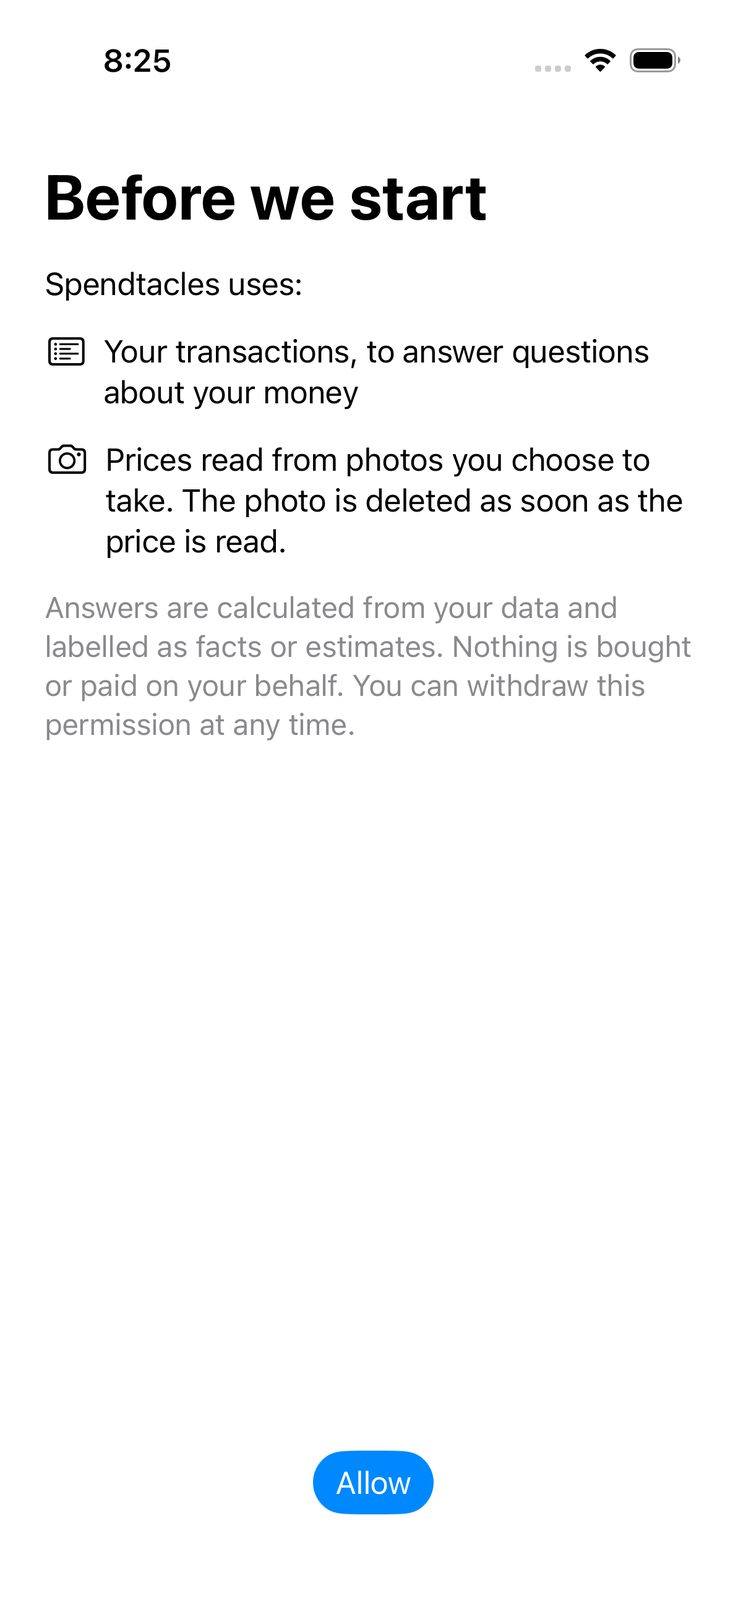
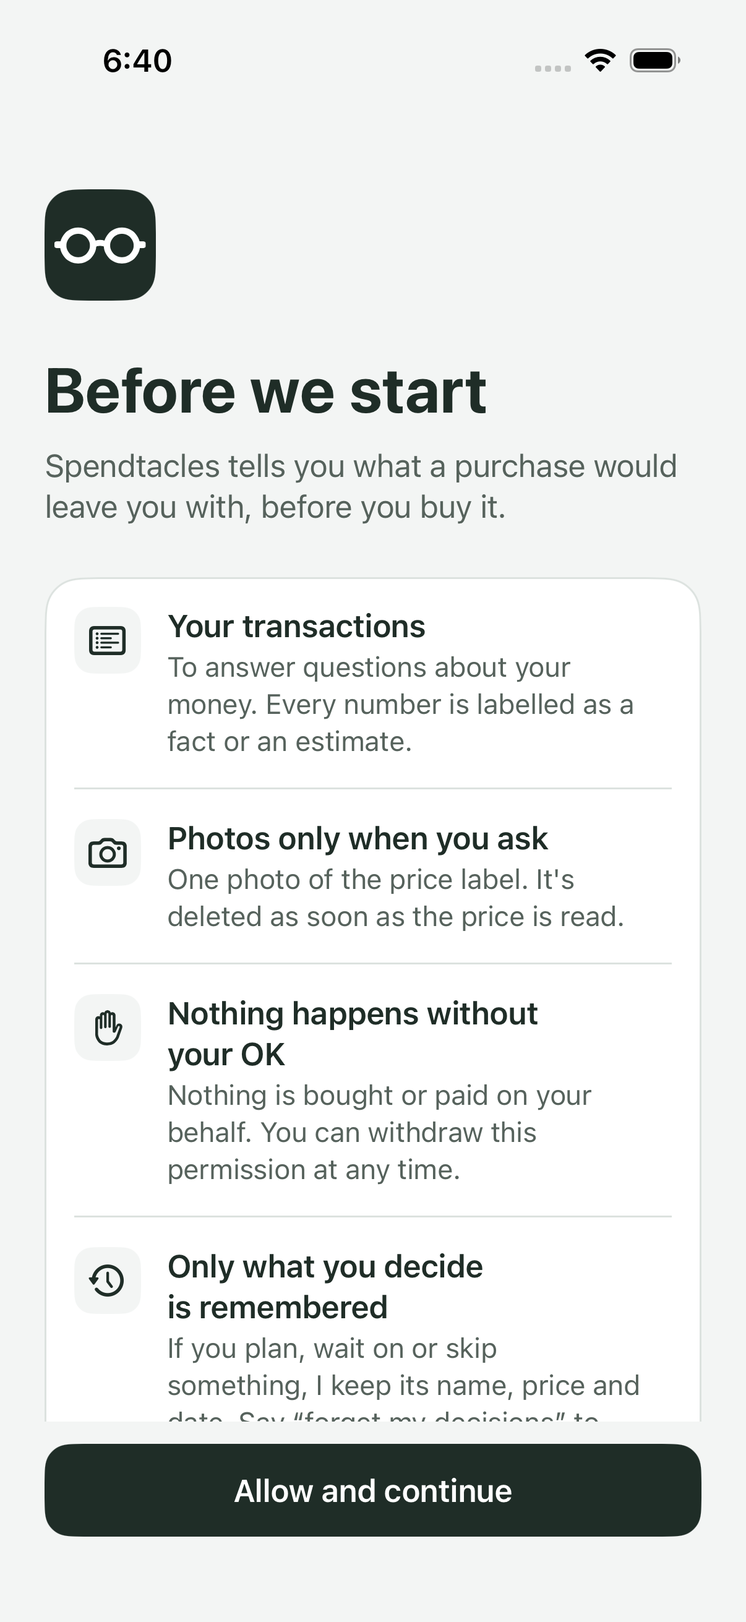
docs: update everything to the current app
- README: new CI screenshots (consent, answer, verified receipt, updated
  week) and captions; mock note mentions the header pill and receipts.
- Submission text rewritten around "show me why", the trust gate and the
  evaluation; 4,180 of 5,000 characters; links to the eval results.
- Backend README: 83 tests, receipt endpoints, trust gate, options,
  decision memory, eval and demo commands, FIXTURE_SCENARIO and
  LABEL_FIXTURE_SEQUENCE.
- OpenAPI: POST /v1/receipts/verify, GET /v1/receipts/public-key.
- iOS README: UI test flow and design notes (look, receipt, raw cards,
  follow-ups). Contracts README and ARCHITECTURE.md note the receipt.
- Demo video plan: the confirm sheet is now the decision panel ("Plan it
  in / Wait / Skip") and the app's palette changed; receipt noted as an
  optional proof beat. Timing and creative choices untouched.
- iOS: receipt lines no longer say "Read by camera · Camera".
- Eval report regenerated (19/19, 0 false-safe).

diff --git a/companion-ios/Sources/CompanionUI/Views.swift b/companion-ios/Sources/CompanionUI/Views.swift
@@ -436,7 +436,10 @@ struct ReceiptSheet: View {
             }
             HStack(spacing: 6) {
                 EpistemicChip(epistemic: line.epistemic)
-                Text("· \(sourceName(line.source.rawValue))").font(.caption).foregroundStyle(Look.slate)
+                // "Read by camera · Camera" says the same thing twice.
+                if !(line.epistemic == .observed && line.source == .camera) {
+                    Text("· \(sourceName(line.source.rawValue))").font(.caption).foregroundStyle(Look.slate)
+                }
             }
             if let note = line.note {
                 Text(Display.text(note, locale: locale)).font(.caption).foregroundStyle(Look.slate)

diff --git a/docs/submission.md b/docs/submission.md
@@ -19,48 +19,41 @@ AI Glasses for Everyone, Everyday
 ## Description (max 5000, markdown)
 
 ### The problem
-Money decisions happen in the shop aisle; banking apps show them afterwards. By the time you've opened the app and found your balance, you've already paid. Glasses can help in the moment, but a money assistant you wear must earn trust: no invented numbers, no always-on camera, no moving money on its own.
+Money decisions happen in the shop aisle; banking apps show them afterwards. Glasses can help in the moment, but a money assistant you wear must earn trust: no invented numbers, no guessing, no always-on camera, no moving money on its own.
 
 ### What Spendtacles does
-Spendtacles turns Ray-Ban Meta glasses and your phone into a hands-free money coach.
+1. Look at a price label and ask **"Can I afford this?"** (or *"Onko minulla varaa tähän?"*). The glasses take one photo, only because you asked.
+2. You hear: *"If that price is 79.90, it fits, but it would leave about 10 euros until Sunday. Want me to plan it in?"*
+3. Your phone shows what buying it leaves you, and your options: **buy now**, **wait** or **skip**, all from the same numbers.
+4. Tap **Receipt** to see why. The Purchase Receipt lists every figure and its source: the price the camera read (91 % sure), the money available, the bills taken off first, the calculation (`90.16 − 79.90 = 10.26`), what's left, and how fresh the data is. **Check this receipt again** has the server re-verify it.
+5. Tap **Plan it in**, **Wait** or **Skip**. Nothing happens until you choose. "Forget my decisions" deletes what it remembered.
 
-1. Look at a price label and ask **"Can I afford this?"** or **"Does this fit my week?"** You can ask in English or Finnish (*"Onko minulla varaa tähän?"*).
-2. The glasses take one photo, only because you asked. The price is read from the label.
-3. You hear a short answer, for example: *"If that price is 79.90, it fits, but it would leave about 10 euros until Sunday. Want me to plan it in?"*
-4. Your phone shows the card behind the answer. Every row carries a label that says where it came from:
-   - **read by camera** for the price on the label;
-   - **fact** or **calculated** for figures from your data;
-   - **estimate** for projections.
-5. Tap Confirm, and the coach adds it to your week. Nothing happens until you say yes, and you can undo it.
+**It refuses to guess.** A smudged label gets *"I can't read that price reliably. Is it 19.90 or 79.90?"* Missing, week-old or conflicting account data, or an unknown bill: no verdict, and it says why.
 
-**No bank connected?** The coach asks one question the first time it needs one: *"How much do you want to spend until Sunday?"* Say "about a hundred" and you're set up. It remembers the amount, and every answer is labelled "as you told me". You can also use Spendtacles from the phone alone, without the glasses.
+**No bank connected?** It asks once, *"How much do you want to spend until Sunday?"*, and labels every answer "as you told me".
 
 ### Built to be trusted
-- **The AI never invents numbers.** Every figure comes from a deterministic finance engine and carries a calculation ID. Before anything is spoken or shown, a verifier checks each number against the engine's log and drops any number the engine didn't calculate.
-- **No action without confirmation.** Changes are proposals. Each confirmation is signed, single-use, expiring and checked on the server. Kinds of action that move money (payments, transfers, purchases, loans) are rejected by the contract itself.
-- **The camera works only when you ask.** There is no always-on camera and no face recognition. Before a photo leaves the phone, it is rotated upright, stripped of EXIF and GPS data, and downscaled. The coach receives the price read from the label, not the photo, and price-label photos are kept for 0 seconds.
-- **Consent is fail-closed.** Without consent, no finance turn runs. Revoking consent deletes the captures made under it.
-
-### A platform, not a one-off demo
-Every capability implements one stable interface; the money coach is the first, built without touching glasses code. Every message follows a versioned JSON Schema contract with generated TypeScript, Swift, Kotlin and Python types. The trust rules live in the schemas, and every example message runs as a test.
+- **Show me why:** the platform signs each receipt only after every figure on it matches the money engine's calculation log. Change one number and verification fails.
+- **Asks or abstains, never guesses:** deterministic rules, not a model, decide when the data can't support a verdict. Our evaluation: 19 synthetic scenarios, 15 critical, **0 false-safe answers**. Turning the rules off makes it fail.
+- **No invented numbers:** every spoken or shown figure must trace to a calculation ID.
+- **No action without confirmation:** signed, single-use, expiring. Money-moving actions are rejected by the contract.
+- **Camera only when you ask:** EXIF and GPS stripped; the coach gets the price, not the photo, and the photo is kept for 0 seconds.
+- **Consent is fail-closed;** revoking it deletes the captures made under it.
 
 ### Engineering we can show
-- **Backend** (TypeScript, Fastify) handles sessions, glasses device state, consent, photo capture, streamed answers and signed confirmations. All 63 tests pass.
-- **Money engine** (Python, from our teammate) runs on the Junction 2026 synthetic transaction dataset. It answers until payday, and its figures come back as decimal strings with calculation IDs. In the team's two-year backtest, the safe-to-spend rule cut overdraft days by 89%.
-- **iOS companion** (Swift, SwiftUI): glasses session, Bluetooth audio, speech, capture and cards, with unit tests and an end-to-end smoke test.
-- **Meta Wearables Device Access Toolkit 1.0.1**: CI builds the app on macOS runners and drives the whole flow (look, hear, confirm, updated week) on Meta's Mock Device Kit. It passes and saves screenshots.
-- **26 recorded architecture decisions**, each with alternatives, evidence and the conditions for revisiting it.
+- **Backend** (TypeScript, Fastify): orchestrator, consent, capture, trust gate, signed receipts and verification, decision memory. 83 tests pass.
+- **Evaluation harness** (`npm run eval`): false-safe answers, abstention, receipt verification, latency. CI fails on any false-safe answer.
+- **Money engine** (Python, from our teammate) on the Junction 2026 synthetic dataset; in the team's two-year backtest, its safe-to-spend rule cut overdraft days by 89%.
+- **iOS companion** (Swift, SwiftUI) on **Meta Wearables DAT 1.0.1**: CI drives the whole flow on Meta's Mock Device Kit, including opening the receipt and re-verifying it against the server.
+- **Versioned JSON Schema contracts** with generated TypeScript, Swift, Kotlin and Python types; **32 recorded architecture decisions**.
 
 ### What's real and what's mocked
-- **Real:** orchestrator, consent, capture pipeline, confirmation signing, number verification, contracts, no-bank mode, iOS companion, and the team's money engine on the synthetic dataset.
-- **Mocked:**
-  - The label reader returns the demo price label.
-  - With the engine, "today" is a fixed date in the synthetic dataset (2026-09-05), and the answers say so.
-  - The default demo uses fixture numbers, which are marked as mock in the app.
-- **On real glasses:** **[CHECK: e.g. "capture and spoken answer verified on Ray-Ban Meta", otherwise "demonstrated with Meta's Mock Device Kit"]**. "Hey Meta" launch and glasses-tap confirmation are experimental in Meta's SDK, so they sit behind flags and each has a fallback.
+- **Real:** everything above, plus no-bank mode and the team's engine on the synthetic dataset.
+- **Mocked:** the label reader is scripted (the demo label, or a smudged one); there is no OCR model, so OCR accuracy isn't measured. Abstention scenarios and the default numbers are synthetic fixtures, labelled as such in the app. With the engine, "today" is a simulated date.
+- **On real glasses:** **[CHECK: "verified on Ray-Ban Meta" or "demonstrated with Meta's Mock Device Kit"]**. "Hey Meta" launch and glasses-tap confirmation are experimental in Meta's SDK, so they sit behind flags with fallbacks.
 
 ### What's next
-Real bank data through a PSD2 sandbox, a real label reader, receipt matching, a language model that explains the engine's figures but never calculates them, and more capabilities on the same platform.
+Real bank data (PSD2), a real label reader measured on labelled photos, receipts and decisions kept beyond a session, matching shop receipts to decisions, and more capabilities on the same platform.
 
 ### Tech
 Swift · SwiftUI · Meta Wearables DAT 1.0.1 · Python · FastAPI · DuckDB · TypeScript · Node 22 · Fastify · JSON Schema (Ajv) · quicktype · ES256 JWS · GitHub Actions (macOS + Mock Device Kit) · Fly.io
@@ -74,7 +67,7 @@ Swift · SwiftUI · Meta Wearables DAT 1.0.1 · Python · FastAPI · DuckDB · T
 | Source Code | https://github.com/kqtiiv/Spendtacles |
 | Project Demo | **[CHECK]** The deployed backend (`https://junction26-coach.fly.dev/health`) wasn't responding when checked. Leave blank, or link the CI screenshots / a demo recording. |
 | Video | **[TODO]** Record it (see the plan in chat) and upload it to YouTube (unlisted) or Loom |
-| Other Link | https://github.com/kqtiiv/Spendtacles/blob/main/docs/ARCHITECTURE_DECISION_LOG.md |
+| Other Link | https://github.com/kqtiiv/Spendtacles/blob/main/docs/eval/RESULTS.md (evaluation results; decisions in docs/ARCHITECTURE_DECISION_LOG.md) |
 | Presentation | **[TODO]** PDF deck |
 
 ## Tech challenges

diff --git a/backend/README.md b/backend/README.md
@@ -4,9 +4,12 @@ Implements `contracts/http/orchestrator.openapi.yaml` (L3) and the S-Bank Coach 
 
 ```bash
 npm install
-npm test            # 63 tests: demo path, captures, consent, confirmation rules, abort, timeout fallback, invented numbers
+npm test            # 83 tests: demo path, captures, consent, confirmation rules, abort, timeout fallback, invented numbers,
+                    #           trust gate, receipts and their verification, buy/wait/skip, decision memory
 npm run typecheck
 npm run dev         # http://0.0.0.0:8787  (phone on the same network can reach it)
+npm run eval        # safety evaluation → ../docs/eval/RESULTS.md (add `-- --check` to fail on any false-safe answer)
+npm run demo        # the judge demo conversation in the terminal, no device needed
 ```
 
 Try it: `curl -H 'authorization: Bearer demo-token' localhost:8787/health`
@@ -21,7 +24,9 @@ Try it: `curl -H 'authorization: Bearer demo-token' localhost:8787/health`
 | `POST /v1/consents`, `DELETE /v1/consents/{id}` | Records a grant (only data classes and purposes the manifest declares); revoking deletes captures made under it |
 | `POST /v1/captures` | Multipart upload. Checks consent for the purpose, refuses glasses captures in `phone_only`, rejects photos that still carry EXIF, reads the label into an `Observation`, and deletes the image at once when the capability declared retention 0 |
 | `POST /v1/turns` (SSE) | Validates `VoiceIntent`, routes to a capability, streams `card` / `proposal` / `final` events, or an `error` event with an `ErrorEnvelope` |
-| `POST /v1/confirmations` | Policy-checks, signs (ES256 JWS) and forwards a `UserConfirmation`; returns `ActionResult` |
+| `POST /v1/confirmations` | Policy-checks, signs (ES256 JWS) and forwards a `UserConfirmation`; returns `ActionResult` (its card signed like any other) |
+| `POST /v1/receipts/verify` | Body `{ card }`: re-checks a card's receipt. Signature, digest of the card, and every figure against this user's calculation log (observed prices against stored observations). Returns `valid`, `signature_valid`, `digest_matches`, `grounded`, `unverified` (DEC-029) |
+| `GET /v1/receipts/public-key` | The platform's receipt-signing key (PEM, ES256) |
 
 Platform intents handled in `/v1/turns` without a capability: `stop`/`cancel` (aborts the turn in flight; it delivers no final, DEC-011), `repeat`, `confirm`/`reject` (glasses gesture, exact-word voice, or typed), `show_on_phone`, `next_card`.
 
@@ -29,13 +34,21 @@ Every outgoing event is validated against the JSON Schemas before it is sent.
 
 **Consent is fail-closed** (ARCHITECTURE.md §2.5): a domain turn needs an active grant for the capability, so the companion records the combined consent at first launch (`POST /v1/consents`) before the first question. Attached captures reach the capability as `Observation`s, never as the photo, unless its manifest declares `delivery: "media"`.
 
+## Trust gate, receipts, options and memory (DEC-029 to DEC-032)
+
+- **Purchase Receipt.** Answer cards carry `receipt`: lines (product, price and source, label-reading confidence, money available, bills and commitments, the calculation, what's left, verdict rule), confidence (confident / caveated / abstained, with reasons), freshness and, added by the platform after the grounding verifier passes, a signed `verification`.
+- **Trust gate** (`src/capabilities/sbank-coach/trust.ts`). Camera prices are used only when there is one price, read at least 80 % sure; otherwise the coach asks ("Is it 19.90 or 79.90?") and offers the candidates as `followups`. No verdict and no proposal when account data is missing, more than 7 days old, in pace mode, conflicting (`SOURCE_CONFLICT`) or missing an upcoming bill (`COMMITMENT_UNKNOWN`). Caveats (estimated bill, data over 24 h old, simulated date, the user's own figure) are listed on the receipt.
+- **Options.** Each verdict comes with a "Your options" card: buy now, wait, skip, from the same engine results.
+- **Decision memory** (`decisions.ts`). "I'll wait" / "skip it" (withdraws the plan offer), "what have I decided", "forget my decisions". Planning something in is remembered too. Sums are logged as the coach's own calculations, so they verify. In memory, per user.
+- **Evaluation** (`eval/`). 19 scenarios, 15 critical. See `docs/eval/RESULTS.md`.
+
 ## What answers the questions today
 
 The **deterministic fast path** on a **fixture finance engine**, both flagged `mock` everywhere:
 - `finance.safe_to_spend`: "what's safe to spend this week" / "paljonko voin käyttää tällä viikolla"
 - `finance.basket.affordability` with a stated amount ("can I afford 79.90 this week") or a price-label capture ("does this fit my week?" / "mahtuuko tämä viikon budjettiin"); a confirmed plan reduces the week's allowance
 
-The **label reader is a fixture** too: it returns the demo €79.90 label whatever the photo shows, and `/health` reports it as `mock`.
+The **label reader is a fixture** too: it returns scripted readings whatever the photo shows (by default the €79.90 headphones label), and `/health` reports it as `mock`. `LABEL_FIXTURE_SEQUENCE` sets the readings capture by capture: `clear`, `ambiguous` (19.90 or 79.90), `low_confidence`, `unreadable`.
 
 Numbers come from `contracts/examples` (€90.16 safe to spend). Every spoken number and card value is verified against the engine's calculation log before it is sent. A remote agent that invents numbers has them dropped (`test/adapter.test.ts`).
 
@@ -71,7 +84,7 @@ Stating the weekly amount is treated as the user giving information, not as an a
 
 - A real label reader (cloud vision model or on-device OCR) behind the `LabelReader` / `vision_ocr` slot.
 - The HTTP client for the Coach team's agent (`RemoteAgentBackend`). The adapter's backend policy, deadline fallback and verification are built and tested against a fake agent.
-- Undo, persistence, the receipt flow, spend queries.
+- Undo, persistence (calculation log, receipts and decisions are in memory), the shop-receipt flow, spend queries.
 
 ## Configuration
 
@@ -81,4 +94,6 @@ Stating the weekly amount is treated as the user giving information, not as an a
 | `FINANCE_SOURCE` | `fixture` | `fixture`: S-Bank demo numbers (mock). `user_stated`: no bank data; the coach asks for the user's weekly amount once, when first needed. `s_pankki`: the team's money engine on the Junction 2026 dataset, via `finance-engine/` |
 | `FINANCE_ENGINE_URL` | `http://127.0.0.1:8790` | Where `finance-engine/` listens (`s_pankki` only) |
 | `DEV_TOKENS` | `demo-token:u_7f3a` | Hackathon auth: `token:user_ref,…` |
-| `PLATFORM_SIGNING_KEY_PEM` | ephemeral key | P-256 private key for signing confirmations |
+| `PLATFORM_SIGNING_KEY_PEM` | ephemeral key | P-256 private key for signing confirmations and receipts |
+| `FIXTURE_SCENARIO` | `default` | Synthetic account data for the `fixture` source: `insufficient`, `stale` (9 days), `stale_recent` (2 days), `unknown_bill`, `conflict`, `missing`, `pace` |
+| `LABEL_FIXTURE_SEQUENCE` | `clear` | Scripted label readings, cycling per user. The demo uses `clear,ambiguous` |

diff --git a/demo-video/SPEC.md b/demo-video/SPEC.md
@@ -39,7 +39,7 @@ TIME: 120 s × 30 = 3600 frames (range 110–120 s). The music sets the clock. T
 
 ### Accent and chips
 - **The one accent is iOS blue #0A84FF.** It appears only on:
-  - the Confirm button;
+  - the "Plan it in" button (was "Confirm");
   - the ticking number while it ticks;
   - the end-card call to action.
 - **Evidence chips** use the app's own colours. Each chip is text on a 14% tint of its colour, with a pill radius, because that is how the app draws them.
@@ -65,7 +65,8 @@ TIME: 120 s × 30 = 3600 frames (range 110–120 s). The music sets the clock. T
 | **The shelf tag** | The real demo label, LANGATTOMAT KUULOKKEET 79,90 €: a red header band and black price on white. It is the bridge between the footage and the UI, and "79,90 €" is the one piece of data that travels through the film. |
 | **The phone** | Only its screen content, rebuilt from the real app (no device frame). In the left-hand footage it is the shopper's own phone, filmed. |
 | **The glasses** | Real Ray-Ban Meta in your footage only. Never drawn. |
-| **The confirm sheet** | Rebuilt with its exact labels: "Add “Langattomat kuulokkeet” to this week's planned spending?", "Price (read from the label) 79,90 €", "Safe to spend this week 90,16 € → 10,26 €", "You can undo this later.", "Not now" and "Confirm". |
+| **The decision panel** (was the confirm sheet; the app changed on 2026-11-15, DEC-027/031) | Rebuilt with its exact labels: "Add “Langattomat kuulokkeet” to this week's planned spending?", "Safe to spend this week 90,16 € → 10,26 €", the buttons "Plan it in", "Wait" and "Skip", and "Nothing is bought or paid. You can undo this later." It docks above the input bar instead of sliding up as a sheet. Reference: `docs/images/2-answer.png`. |
+| **The Purchase Receipt** (new, DEC-029) | Optional proof beat: the receipt sheet with "Verified just now: signature, contents and every figure match." and the line `90.16 − 79.90 = 10.26`. Reference: `docs/images/3-receipt-verified.png`. Not yet placed in the timeline. |
 | **The answer** | The real sentence: “If that price is 79.90, it fits, but it would leave about 10 euros until Sunday. Want me to plan it in?” |
 
 ## MOTION
@@ -97,13 +98,13 @@ TIME: 120 s × 30 = 3600 frames (range 110–120 s). The music sets the clock. T
 | 01 | 0–6 s (0–180) | Hard split, both panes live from frame 0. | "Same shelf. Same 79,90 €." across the seam (0.4–3.0 s). | Room tone. The bed enters on bar 1. | – |
 | 02 | 6–14 s | **Left (L):** unlock → bank app → account list, a cut every 18 frames. **Right (R):** the glasses look at the tag (F1). | **R:** "does this fit my week?" types on under the tag (6.5–9.5 s). | **L:** phone UI clicks. **R:** silence under the bed. | – |
 | 03 | 14–22 s | **L:** scrolling a transaction list (placeholder footage). **R:** the answer, as captions with a waveform. | **R:** the real sentence in two lines, (14.4–17.4 s) and (17.6–21.4 s). | **L:** clicks build. | – |
-| 04 | 22–30 s | **R:** F2, a thumb taps Confirm and "Done." lands. **L:** still scrolling. | **R:** "Done. You can undo it on your phone." (24.0–27.0 s). **L:** "still checking…" (27.0–29.5 s). | Click on the tap. **L** clatter peaks. | – |
+| 04 | 22–30 s | **R:** F2, a thumb taps Plan it in and "Done." lands. **L:** still scrolling. | **R:** "Done. You can undo it on your phone." (24.0–27.0 s). **L:** "still checking…" (27.0–29.5 s). | Click on the tap. **L** clatter peaks. | – |
 | 05 | 30–33 s | The seam pushes left and the left pane leaves frame (24 frames). | – | **L** goes silent on the push. Whoosh. | The right pane fills the frame. |
 | 06 | 33–39 s | Reveal: a dark card with "Spendtacles" at 180 px, wiped in from the left edge. | "Spendtacles" (33.4–36 s). "Ask while you're still at the shelf" (36–38.8 s). | Bed lifts a bar. | The tag on the right pane becomes shot 07. |
 | 07 | 39–49 s | **Look.** The tag at 1.8×. "79,90 €" lifts off the tag, and the purple "read by camera" chip pops. | "It reads the label" (39.5–42 s). "79,90 € · read by camera" (42–48 s). | Pop on the chip. | – |
 | 08 | 49–61 s | **Ask + hear.** Glasses footage behind, with the sentence typed on in big type, word by word. | "If that price is 79.90, it fits…" (49.5–54 s). "…but it would leave about 10 euros until Sunday." (54–58.5 s). | Soft key ticks. | "about 10 euros" turns into the card number. |
 | 09 | 61–71 s | **Check.** The answer card: "Does it fit this week?", 10,26 € and the estimate chip. | "Does it fit this week? 10,26 €" (61.5–65 s). "Every number checked against the calculation" (65–70 s). | Pop on the chip. | – |
-| 10 | 71–79 s | **Tap.** The confirm sheet slides up and the cursor-thumb taps Confirm. | The sheet's rows (71.5–76 s). Confirm is tapped (77 s). | Click on Confirm. | – |
+| 10 | 71–79 s | **Tap.** The decision panel docks up and the cursor-thumb taps Plan it in. | The panel's rows (71.5–76 s). Plan it in is tapped (77 s). | Click on Plan it in. | – |
 | 11 | 79–90 s | **Payoff.** 90,16 € ticks to 10,26 € at 220 px, then "Done. You can undo it on your phone." | The tick (79.5–81 s), the result holds (81–85 s), then "Done…" (85–89 s). | Riser into impact on the settle (once in the film). | – |
 | 12 | 90–104 s | **No bank connected?** The phone asks: "How much do you want to spend until Sunday?" → "about a hundred" → "Got it: 100 euros until Sunday. If the label's right, that leaves about 20." | Four lines, one at a time, at 3.0–3.5 s each. | Key ticks. | – |
 | 13 | 104–112 s | **Trust.** One line per beat, each on its real chip or label. | "Every number is checked" → "The photo is deleted" → "You say yes first" → "It never moves money" (2 s each). | Pop per chip. | – |

diff --git a/demo-video/STORYLINES.md b/demo-video/STORYLINES.md
@@ -10,7 +10,7 @@ Fixed for all three (agreed earlier):
 Every number and sentence on screen comes from the real app, using the CI fixture run. The real values:
 - The label: "LANGATTOMAT KUULOKKEET 79,90 €".
 - The spoken answer: "If that price is 79.90, it fits, but it would leave about 10 euros until Sunday. Want me to plan it in?"
-- The confirm sheet: "Price (read from the label) 79,90 €", and "Safe to spend this week" going from 90,16 € to 10,26 €.
+- The decision panel: "Safe to spend this week" going from 90,16 € to 10,26 €, with Plan it in / Wait / Skip. (It replaced the confirm sheet on 2026-11-15.) The Purchase Receipt shows the same numbers with their sources.
 - After confirming: "Done. You can undo it on your phone.", flexible money 168,04 €, 4 days left.
 - The no-bank question, taken from the real `user_stated` replies.
 
@@ -18,7 +18,7 @@ App cards are rebuilt at 1.6–2× size from these real labels and values, witho
 
 Filmed slots, which you shoot:
 - F1: glasses POV at the shelf label, about 6 s.
-- F2: a thumb tapping Confirm, about 3 s.
+- F2: a thumb tapping Plan it in, about 3 s.
 - F3: taking the glasses off, about 3 s.
 
 Until you shoot them, each slot shows a labelled placeholder.
@@ -29,7 +29,7 @@ Until you shoot them, each slot shows a labelled placeholder.
 
 **Device:** a moment in someone's day. **Form:** object-to-object chain.
 
-**What the viewer sees and feels:** One shopper stands in front of one shelf with one price tag. The price "79,90 €" never leaves the screen. It lifts off the label, becomes the number in the spoken answer, then becomes a row on the confirm card. On Confirm it ticks the week down from 90,16 € to 10,26 €. The viewer feels the decision being made in the aisle, not afterwards in a banking app.
+**What the viewer sees and feels:** One shopper stands in front of one shelf with one price tag. The price "79,90 €" never leaves the screen. It lifts off the label, becomes the number in the spoken answer, then becomes a row on the decision panel. On Plan it in it ticks the week down from 90,16 € to 10,26 €. The viewer feels the decision being made in the aisle, not afterwards in a banking app.
 
 **First 2 s:** We look through the glasses (F1). The yellow shelf tag fills the frame. The caption *"does this fit my week?"* types in under it, one word per beat.
 
@@ -40,7 +40,7 @@ Until you shoot them, each slot shows a labelled placeholder.
 | 0–8 s | Hook | The question asked at the shelf. |
 | 8–22 s | Tension | The old way: unlock the phone, open the bank app, scroll transactions. The aisle blurs and the moment passes. |
 | 22–30 s | Reveal | "Spendtacles" type-slams onto a dark card. |
-| 30–80 s | Proof, four verbs | **Look:** the label is read, with the purple "read by camera" chip. **Ask.** **Hear:** the real sentence as big captions with a waveform. **Tap:** F2, then the Confirm button. |
+| 30–80 s | Proof, four verbs | **Look:** the label is read, with the purple "read by camera" chip. **Ask.** **Hear:** the real sentence as big captions with a waveform. **Tap:** F2, then the Plan it in button. |
 | 80–92 s | Payoff | The number ticks 90,16 € → 10,26 € at full size with a sound tick. |
 | 92–108 s | No bank? | "No bank connected?" The phone asks one question, "Roughly how much do you have for this week?", and "about a hundred" becomes the budget. |
 | 108–114 s | Trust | Four short lines, each on its own real chip: every number checked, photo deleted, you consent first, it never moves money. |
@@ -48,11 +48,11 @@ Until you shoot them, each slot shows a labelled placeholder.
 
 **Look:** two worlds.
 - The aisle: real footage, warm shop light.
-- The phone: the app's own light iOS greys, #F2F2F7 cards, black SF/Inter type, the blue #0A84FF Confirm button, and the real chip colours (orange estimate, green fact, purple read by camera).
+- The phone (the app's look since 2026-11-15, DEC-027): aisle white #F3F5F4 ground, white cards with hairlines, spruce ink #1F2D27 text and buttons, the shelf-tag yellow #FFDA3D price tag with heavy compressed numerals, and the real dot labels (orange estimate, green fact, purple read by camera).
 
-The dark cards appear only for the reveal and the end card, with type filling the frame. The accent is rationed to the Confirm button and the ticking number.
+The dark cards appear only for the reveal and the end card, with type filling the frame. The accent is rationed to the yellow price tag and the ticking number.
 
-**Sound:** A calm, low-tempo beat. The aisle has room tone. There's a soft click on Confirm, and a mechanical tick for each step of the number.
+**Sound:** A calm, low-tempo beat. The aisle has room tone. There's a soft click on Plan it in, and a mechanical tick for each step of the number.
 
 ---
 
@@ -76,7 +76,7 @@ Diving into the 79,90 lands on the real price label. Diving into the label pulls
 | 0–10 s | Hook: the answer. |
 | 10–25 s | Tension: "Finance AI makes numbers up." A struck-through wrong answer. |
 | 25–70 s | Proof: three dives (the calculation, the label, the aisle). |
-| 70–85 s | Reveal + payoff: pull out to the whole moment at the shelf, then Confirm and the tick. |
+| 70–85 s | Reveal + payoff: pull out to the whole moment at the shelf, then Plan it in and the tick. |
 | 85–100 s | No-bank question. |
 | 100–112 s | Trust. |
 | 112–120 s | End card. |

diff --git a/README.md b/README.md
@@ -14,20 +14,22 @@ These screenshots come from CI, not a mock-up. The UI test runs the real iOS app
 
 <table>
   <tr>
-    <td align="center" width="25%"><img src="companion-ios/App/Resources/demo_price_label.jpg" alt="Demo price label: LANGATTOMAT KUULOKKEET, 79,90 €" width="240"></td>
-    <td align="center" width="25%"><img src="docs/images/1-consent.png" alt="Consent screen: Before we start" width="240"></td>
-    <td align="center" width="25%"><img src="docs/images/2-answer-and-proposal.png" alt="Spoken answer and a proposal to add the purchase to this week's planned spending" width="240"></td>
-    <td align="center" width="25%"><img src="docs/images/3-confirmed.png" alt="Confirmed: 10,26 € safe to spend this week" width="240"></td>
+    <td align="center" width="20%"><img src="companion-ios/App/Resources/demo_price_label.jpg" alt="Demo price label: LANGATTOMAT KUULOKKEET, 79,90 €" width="190"></td>
+    <td align="center" width="20%"><img src="docs/images/1-consent.png" alt="Consent screen: Before we start" width="190"></td>
+    <td align="center" width="20%"><img src="docs/images/2-answer.png" alt="The answer: Langattomat kuulokkeet, 10,26 € left until Sunday after buying, with the receipt link and Plan it in / Wait / Skip" width="190"></td>
+    <td align="center" width="20%"><img src="docs/images/3-receipt-verified.png" alt="The Purchase Receipt, verified just now: every line with its source, the calculation 90.16 − 79.90 = 10.26, and the verdict rule" width="190"></td>
+    <td align="center" width="20%"><img src="docs/images/4-confirmed.png" alt="Confirmed: 10,26 € safe to spend this week, with its own signed receipt" width="190"></td>
   </tr>
   <tr>
     <td valign="top"><b>0. What the glasses see.</b> The simulated camera is fed this price label.</td>
-    <td valign="top"><b>1. Consent first.</b> No finance turn runs without a grant. Photos are deleted as soon as the price is read.</td>
-    <td valign="top"><b>2. Answer + proposal.</b> <i>"If that price is 79.90, it fits, but it would leave about 10 euros until Sunday. Want me to plan it in?"</i> The proposal shows the before and after, and waits.</td>
-    <td valign="top"><b>3. Confirmed.</b> One explicit tap, and the card updates to the new figure. Every value is labelled <i>fact</i>, <i>estimate</i>, <i>calculated</i> or <i>read by camera</i>.</td>
+    <td valign="top"><b>1. Consent first.</b> What's used, what's remembered, and that nothing is bought for you.</td>
+    <td valign="top"><b>2. The answer.</b> <i>"If that price is 79.90, it fits, but it would leave about 10 euros until Sunday. Want me to plan it in?"</i> The card is about the item. Plan it in, wait or skip.</td>
+    <td valign="top"><b>3. Show me why.</b> The Purchase Receipt: every figure, where it came from, what's uncertain. "Check this receipt again" has the server re-verify it.</td>
+    <td valign="top"><b>4. Confirmed.</b> One explicit tap. The updated week comes back with its own signed receipt.</td>
   </tr>
 </table>
 
-The dark strip under the title (`glasses: mock · mode: glasses · seq …`) is the debug overlay. It is there on purpose: **mocks are never silent** (DEC-005), so the app always shows when simulated glasses or fixture data are in play.
+The header pill says **Simulated** and the grey strip at the end (`glasses: mock · mode: glasses · seq …`) is the debug overlay. Both are there on purpose: **mocks are never silent** (DEC-005), so the app always shows when simulated glasses or fixture data are in play. Receipts say **Synthetic data** for the same reason.
 
 ## Show me why
 

diff --git a/companion-ios/README.md b/companion-ios/README.md
@@ -80,7 +80,7 @@ Already set, nothing to change: the `sbankcoach://` URL scheme that Meta AI uses
 
 ## Run without glasses (and without a Mac): CI on GitHub's macOS runners
 
-`.github/workflows/ios.yml` builds everything on a macOS runner and runs the app in the iOS Simulator with Meta's **Mock Device Kit** (simulated Ray-Ban Meta glasses inside the real DAT SDK). The UI test walks through consent → connect glasses → "does this fit my week?" → answer card → confirm, and uploads screenshots of each step as the `ios-screenshots` artifact.
+`.github/workflows/ios.yml` builds everything on a macOS runner and runs the app in the iOS Simulator with Meta's **Mock Device Kit** (simulated Ray-Ban Meta glasses inside the real DAT SDK). The UI test walks through consent → connect glasses → "does this fit my week?" → answer card → open the Purchase Receipt → **Check this receipt again** (the backend re-verifies it) → Plan it in → updated week, and uploads screenshots of each step as the `ios-screenshots` artifact.
 
 The Xcode project is generated from `Xcode/project.yml` with XcodeGen and has two app targets:
 
@@ -101,6 +101,10 @@ BACKEND_URL=http://localhost:8787 swift run companion-smoke
 ```
 
 ## Design notes
+
+- **Look** (DEC-027): one bold element, the answer's figure on a shelf-price-tag yellow, on a quiet aisle-white ground with spruce ink; system fonts; dark mode. The decision (Plan it in / Wait / Skip) docks above the input bar in one compact row so it never covers the card, and the receipt link sits right under the price tag.
+- **Purchase Receipt** (DEC-029): `ReceiptSheet` shows every line with its kind and source, the reasons for caveats or no verdict, data freshness and the proof. The coordinator keeps each card's JSON exactly as received (`TurnOutcome.rawCards`) and **Check this receipt again** sends that back to `POST /v1/receipts/verify`; re-encoding through Codable could change dates and break the signed digest.
+- **Follow-ups** (DEC-030/031): the answer's `followups` become chips ("It's 19.90", "I'll wait"); before the first question, two starters show instead.
 
 - **Mocks are never silent** (DEC-005): `MockGlassesBridge` reports `glasses_backend: mock`, and the debug overlay always shows it.
 - **The user starts every capture.** A photo is only taken when the user's own words ask about "this / tämä / den här", and only in glasses mode.

diff --git a/docs/ARCHITECTURE_DECISION_LOG.md b/docs/ARCHITECTURE_DECISION_LOG.md
@@ -1531,7 +1531,7 @@ The canonical record of every material decision on the glasses platform and its 
 | S09 (https://wearables.developer.meta.com/docs/develop/webapps/design/guides/screen-layout/) | Official docs | [fact] Dock actions at the bottom, below the content they affect; one primary action per detail | Meta's own UI toolkit guidance | 2026-11-15 |
 | S09 (https://wearables.developer.meta.com/llms.txt?product=all&version=1.0&document=products/webapps/sections/guides/build/display-and-layout) | Official docs | [fact] "Communicate state with structure or text as well as color" | Meta's own display guidance | 2026-11-15 |
 | S24 (https://design.google/library/transparent-screens) | Industry research (Google) | [fact] Glanceable, brief content; colour used sparingly for key elements | Published design research from a glasses platform team | 2026-11-15 |
-| CI screenshots `docs/images/2-answer-and-proposal.png`, `3-confirmed.png` | Project artefact | [fact] Sheet covers the card; the debug strip dominates; 8780 ms turn | Generated by the UI test | 2026-11-15 |
+| CI screenshots `docs/images/2-answer-and-proposal.png`, `3-confirmed.png` (replaced by the new screenshots; in git history at `8cb1018`) | Project artefact | [fact] Sheet covers the card; the debug strip dominates; 8780 ms turn | Generated by the UI test | 2026-11-15 |
 | Mock-ups (https://claude.ai/artifact/7F6t7uXGwCpCFA1kcFvKub) | Team design artefact | [inference] The layout this decision implements | Our own proposal | 2026-11-15 |
 
 ### Implementation

diff --git a/docs/eval/RESULTS.md b/docs/eval/RESULTS.md
@@ -1,6 +1,6 @@
 # Evaluation results
 
-Generated by `cd backend && npm run eval` on 2026-11-15T05:31:56.312Z (Node v24.12.0).
+Generated by `cd backend && npm run eval` on 2026-11-15T07:14:48.900Z (Node v24.12.0).
 Scenarios are in [`backend/eval/scenarios.ts`](../../backend/eval/scenarios.ts); the runner is [`backend/eval/run.ts`](../../backend/eval/run.ts) (DEC-032).
 
 > **What this is:** the real orchestrator and money-coach capability, run in process on **synthetic** fixture data and scripted label readings. It measures how the system behaves in these scenarios. It is not a measurement of real-world use, real OCR, or real savings.
@@ -17,7 +17,7 @@ Scenarios are in [`backend/eval/scenarios.ts`](../../backend/eval/scenarios.ts);
 | Incorrect confidence rate | 0.0 % | 0 % |
 | Receipts that verified independently (`POST /v1/receipts/verify`) | 21 / 21 | all |
 | Tamper checks answered correctly | 2 / 2 | all |
-| Turn latency, in process (p50 / p95 / max) | 1.4 / 11 / 50.3 ms over 23 turns | — |
+| Turn latency, in process (p50 / p95 / max) | 1.8 / 52.3 / 74.7 ms over 23 turns | — |
 | OCR accuracy against labelled images | **Not measured.** The label reader is a fixture; there is no OCR model to measure yet. | — |
 | User correction rate | Not measured here: needs real users. The app counts corrections per session (“Your decisions” card). | — |
 

diff --git a/docs/ARCHITECTURE.md b/docs/ARCHITECTURE.md
@@ -3,6 +3,8 @@
 *Junction 2026 · Platform design v1.1 · updated 2026-11-14*
 
 > **Since DEC-026 (2026-11-14), S-Bank is not part of the project.** Wherever this document says "S-Bank Coach", read **the money coach**: the finance capability built on our teammate's engine. Internal identifiers (`sbank.coach`, `SBankCoachAdapter`, `s_pankki`) keep the old name until a rename after the hackathon. S-Bank-specific plans (S-Pankki PSD2 sandbox, S Group receipts) are out of scope.
+
+> **Since DEC-029 to DEC-032 (2026-11-15):** answer cards carry a **Purchase Receipt** (`InsightCard.receipt`) that the platform signs only after the grounding verifier passes, and `POST /v1/receipts/verify` re-checks it independently. A deterministic **trust gate** in the money coach asks about unclear labels and gives no verdict when account data can't support one. Each verdict comes with **buy now / wait / skip** options, and decisions are remembered per user until deleted. `backend/eval/` measures false-safe answers, abstention and verification on synthetic scenarios (`docs/eval/RESULTS.md`).
 >
 > **Document map:**
 > - **This document** is the platform architecture.

diff --git a/demo-video/STORYBOARD.md b/demo-video/STORYBOARD.md
@@ -37,7 +37,7 @@ audience: Junction 2026 judges
 
 - status: built
 - duration: 8s
-- scene: Right: thumb taps Confirm (F2), “Done. You can undo it on your phone.” Left: “still checking…”.
+- scene: Right: thumb taps Plan it in (F2), “Done. You can undo it on your phone.” Left: “still checking…”.
 - reads: "Done. You can undo it on your phone." (24.0-27.0s); "still checking…" (27.0-29.5s)
 - sound: click on the tap; left clatter peaks
 - poster: 26
@@ -91,9 +91,9 @@ audience: Junction 2026 judges
 
 - status: built
 - duration: 8s
-- scene: The real confirm sheet. The thumb lands on Confirm, with a click.
-- reads: sheet rows (71.5-76s); Confirm tapped (77s)
-- sound: click on Confirm
+- scene: The real decision panel (docked above the input bar since 2026-11-15). The thumb lands on Plan it in, with a click.
+- reads: panel rows (71.5-76s); Plan it in tapped (77s)
+- sound: click on Plan it in
 - poster: 77
 
 ## Frame 11: The week ticks down (79-90s)

diff --git a/contracts/README.md b/contracts/README.md
@@ -43,7 +43,7 @@ contracts/
 │   ├── domain_response_event.schema.json  streamed events (progress | card | proposal | final)
 │   ├── tool_descriptor.schema.json     DeterministicTool   how a domain describes a deterministic function
 │   ├── tool_result.schema.json         ToolResult          envelope every tool returns (calc_id, epistemic, …)
-│   ├── insight_card.schema.json        InsightCard         schema-driven card for phone/glasses display
+│   ├── insight_card.schema.json        InsightCard         schema-driven card for phone/glasses display, with an optional signed Purchase Receipt (DEC-029)
 │   ├── action_proposal.schema.json     ActionProposal      a change the capability wants to make
 │   ├── user_confirmation.schema.json   UserConfirmation    the user's signed decision
 │   ├── action_result.schema.json       ActionResult        what happened after confirmation
